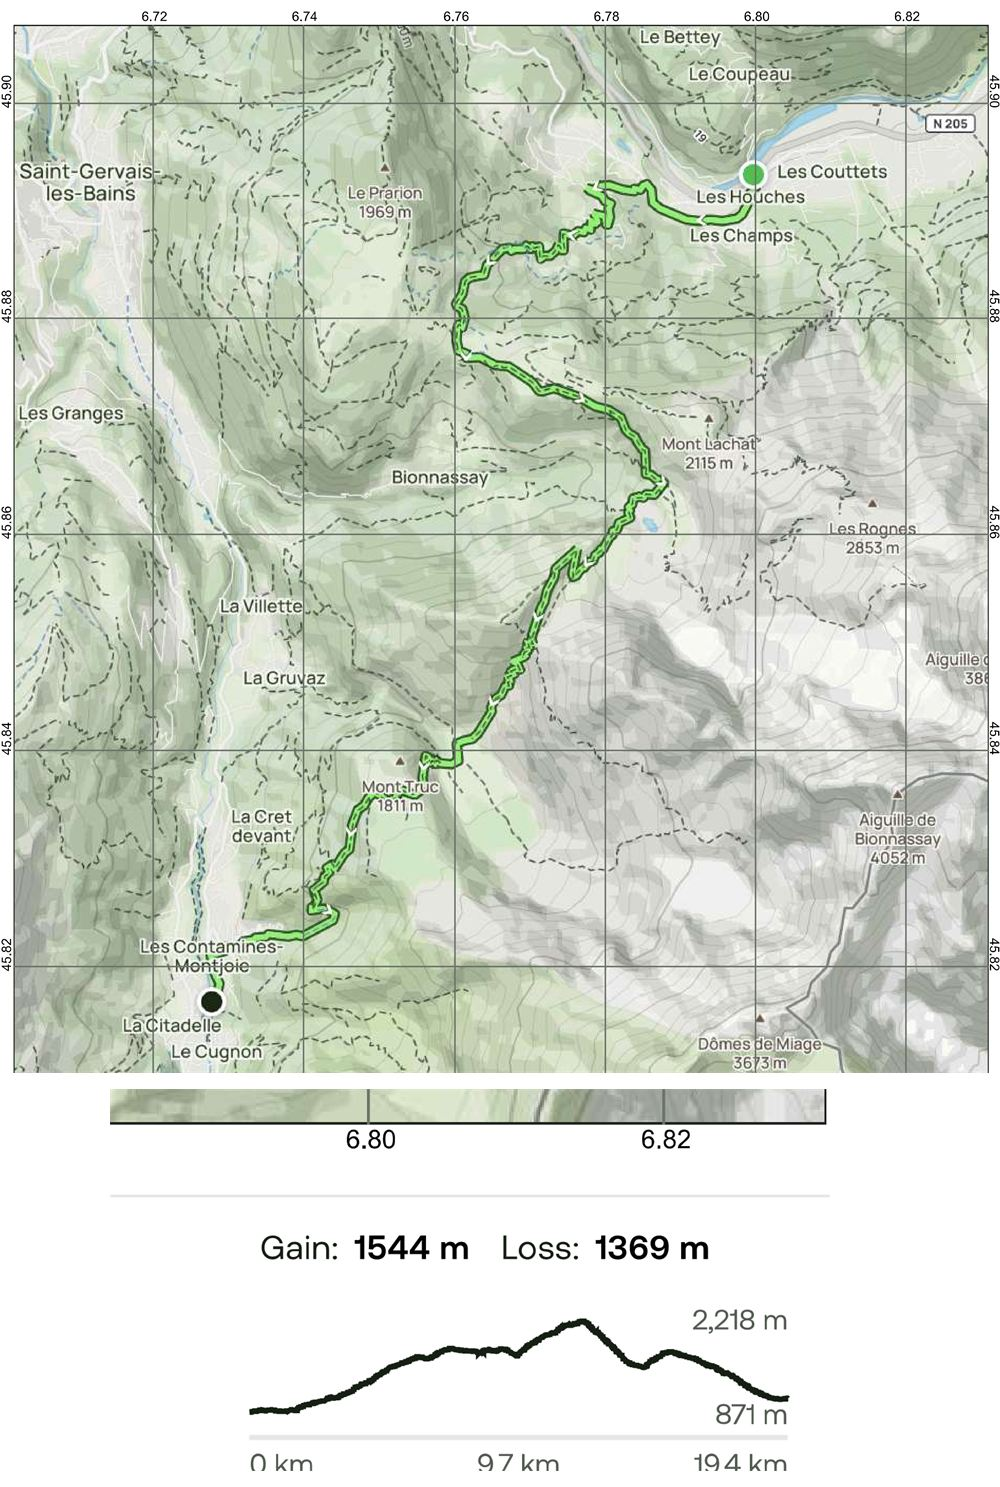
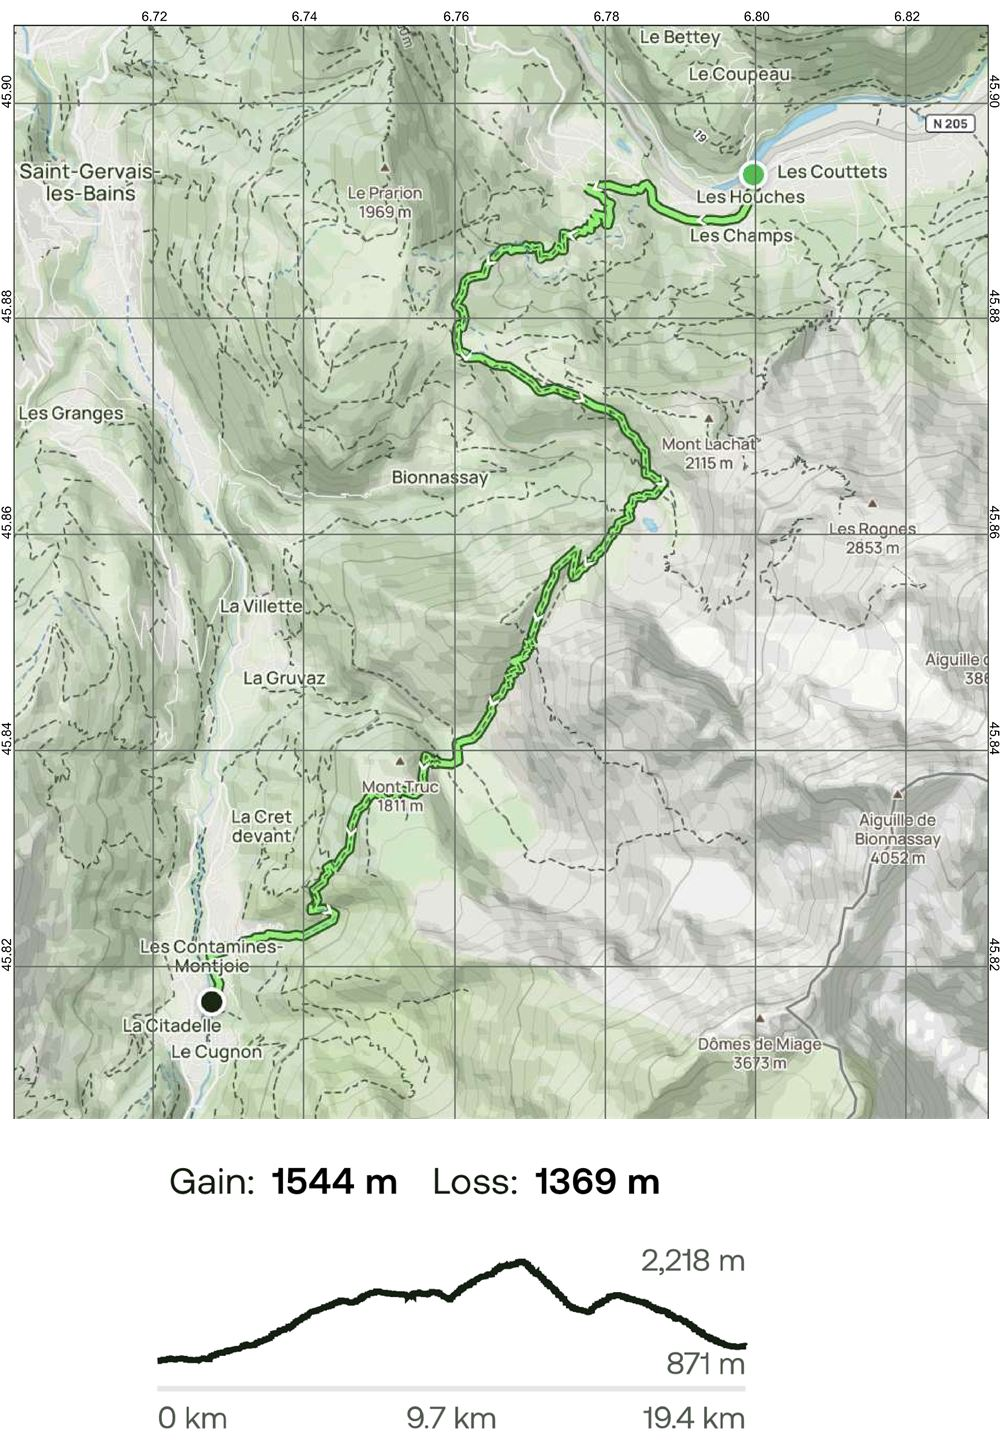
Fix map render: drop pixelated axis band; finalize Day 2 route
- Composite crop was catching the map's bottom coordinate axis + divider,
  leaving an ugly pixelated strip between map and elevation graph. Move the
  elevation crop below it and extend the map crop cleanly. Both days look right.
- Day 2 latest re-export: 20.2 km / +1,535 m / -1,123 m (high point 2,776 m),
  finishes at Les Chapieux. Trip totals ~159 km / +9,946 m.

diff --git a/index.html b/index.html
@@ -170,14 +170,14 @@ const STAGES = [
    skip:"The 800 m climb out of Les Houches is already skipped by the Bellevue cable car (its final day of the season is 13 Sep, so it's running). Nothing else is dull enough to skip.",
    plans:[{grade:"Harder",tag:"⭐ planned · 📸 scenic",pref:true,label:"Les Houches → Col du Tricot (full walk)",at:"https://www.alltrails.com/trail/france/haute-savoie/tour-du-mont-blanc-etape-1-les-houches-les-contamines-variante",dist:"≈19.4 km",gain:"+1,544 m",loss:"−1,369 m",time:"9–9.5 hrs",why:"The full scenic day on foot from Les Houches: climb ~800 m to the Bellevue plateau, branch down to the Bionnassay glacier torrent, cross it on the swaying suspension bridge, over Col de Tricot (2,120 m), then drop via Chalets de Miage and Le Truc to Les Contamines. No cable car — you earn the whole ~1,850 m of ascent, so start very early."},{grade:"Easier",tag:"Cable car start · shorter",label:"Bellevue cable car → Col du Tricot",at:"https://www.alltrails.com/explore/custom-routes/custom-route-tour-du-mont-blanc-etape-1-bellevue-les-contamines-variante-32383fa",dist:"≈12.2 km",gain:"+688 m",loss:"−~1,325 m",time:"6–6.5 hrs",why:"The same Col de Tricot high route, but skip the initial ~800 m road-climb by riding the Bellevue cable car up (13 Sep is its last day of the 2026 season). Shorter and gentler — take an early train to catch the first cabin up."}],
    warns:[]},
-  {day:2,date:"14 Sep",from:"Les Contamines",to:"Les Chapieux",dist:"~20.3 km",gain:"+1,541 m",loss:"−1,125 m",time:"~8.5–9.5 hrs",alt:"2,756 m",country:"FR",diff:5,
+  {day:2,date:"14 Sep",from:"Les Contamines",to:"Les Chapieux",dist:"~20.2 km",gain:"+1,535 m",loss:"−1,123 m",time:"~8.5–9.5 hrs",alt:"2,756 m",country:"FR",diff:5,
    notes:"First major climb over Col du Bonhomme. No shuttle bus today, walk from hotel. Buy your trail lunch in Les Contamines before leaving.",
    meals:{b:"Gaï Soleil, room only; breakfast 13€pp buffet optional",l:"Buy at Carrefour Montagne (310 m) or Proust (440 m) in Les Contamines before leaving",d:"Les Chambres du Soleil, half-board, fixed menu 19:00"},
    physio:"Pace the ascent conservatively, left hip will be working hard on sustained climbs. Rest stops every 40–50 min. Don't push the first big day.",
    weather:"Col du Bonhomme (2,329 m) is dangerously exposed in storm or whiteout and has no on-trail alternative. If the forecast is bad, wait a day in Les Contamines, or go around by road: taxi Les Contamines → Bourg-Saint-Maurice (~€70), then the seasonal Chapieux navette or a taxi up the Vallée des Glaciers to Les Chapieux.",
    escape:"Remote day. Refuge de la Croix du Bonhomme, just past the col, is the shelter and help point. Before the col: return to Les Contamines, taxi → Bourg-Saint-Maurice, then navette/taxi to Les Chapieux. After the col: it is downhill to the Les Chapieux road-head where a Bourg-Saint-Maurice taxi (~€60) can collect. Les Chapieux is zone blanche, arrange any pickup before you lose signal.",
    skip:"Dull bit: the flat first ~5 km (Les Contamines → Notre-Dame de la Gorge). The free navette from the Les Contamines tourist office skips it (summer shuttle, confirm it still runs mid-Sept).",
-   plans:[{grade:"Standard",tag:"⭐ TMB classic",label:"Planned: Col du Bonhomme + Croix du Bonhomme",dist:"≈18.5 km",gain:"+1,316 m",loss:"−929 m",time:"7–9 hrs",why:"The standard TMB: from Notre-Dame de la Gorge climb over Col du Bonhomme (2,329 m) and the Croix du Bonhomme (2,483 m), then descend to Les Chapieux."},{grade:"Harder",tag:"📸 Most scenic",pref:true,label:"Col des Fours + Tête Nord des Fours summit",at:"https://www.alltrails.com/explore/custom-routes/custom-route-tour-du-mont-blanc-etape-2-les-contamines-les-chapieux-3fbbd6f",dist:"≈20.3 km",gain:"+1,541 m",loss:"−1,125 m",time:"~8.5–9.5 hrs",why:"From the Croix du Bonhomme, climb the higher Col des Fours (2,665 m) with a short optional detour up to the Tête Nord des Fours summit for a 360° panorama of Mont Blanc and the Beaufortain. More exposed and snow-prone, and a longer day, so start earlier to reach Les Chapieux before the 19:00 dinner. Skip in bad weather."}],
+   plans:[{grade:"Standard",tag:"⭐ TMB classic",label:"Planned: Col du Bonhomme + Croix du Bonhomme",dist:"≈18.5 km",gain:"+1,316 m",loss:"−929 m",time:"7–9 hrs",why:"The standard TMB: from Notre-Dame de la Gorge climb over Col du Bonhomme (2,329 m) and the Croix du Bonhomme (2,483 m), then descend to Les Chapieux."},{grade:"Harder",tag:"📸 Most scenic",pref:true,label:"Col des Fours + Tête Nord des Fours summit",at:"https://www.alltrails.com/explore/custom-routes/custom-route-tour-du-mont-blanc-etape-2-les-contamines-les-chapieux-3fbbd6f",dist:"≈20.2 km",gain:"+1,535 m",loss:"−1,123 m",time:"~8.5–9.5 hrs",why:"From the Croix du Bonhomme, climb the higher Col des Fours (2,665 m) with a short optional detour up to the Tête Nord des Fours summit for a 360° panorama of Mont Blanc and the Beaufortain. More exposed and snow-prone, and a longer day, so start earlier to reach Les Chapieux before the 19:00 dinner. Skip in bad weather."}],
    warns:["📵 Zone blanche — no phone signal all day, agree any plans in advance","🥪 Day 2 lunch is NOT provided — buy in Les Contamines before leaving"]},
   {day:3,date:"15 Sep",from:"Les Chapieux",to:"Courmayeur",dist:"~21 km",gain:"+~1,300 m",loss:"−~1,650 m",time:"8–10 hrs",alt:"2,516 m",country:"IT",diff:4,
    notes:"Into Italy via Col de la Seigne (2,516 m), the scenic high point. Two dull bits bookend the day: the flat first ~5 km (Les Chapieux → Ville des Glaciers, skip it with the shuttle) and, on the low finish, the Val Veny valley road. The real TMB stays HIGH after Lac Combal over the Mont Favre balcony (2,430 m) into Courmayeur for the best views of the trip. Pick your version in the route options below.",
@@ -501,7 +501,7 @@ function app(){
 function rOverview(){
   const pd=gDone(),pt=gTotal(),td=tDone(),tt=tTotal();
   return`<div class="g3" style="margin-bottom:12px">
-  ${[{v:"~159",u:"km",l:"Total Distance"},{v:"+9,952",u:"m",l:"Total Ascent"},{v:"3",u:"countries",l:"FR · IT · CH"},{v:"10",u:"days",l:"Trail Days"},{v:"11",u:"nights",l:"Accommodation booked"},{v:"10",u:"Sep",l:"SYD Departure"}].map(x=>`<div class="sc"><div class="sv">${x.v}<span class="u">${x.u}</span></div><div class="sl">${x.l}</div></div>`).join("")}
+  ${[{v:"~159",u:"km",l:"Total Distance"},{v:"+9,946",u:"m",l:"Total Ascent"},{v:"3",u:"countries",l:"FR · IT · CH"},{v:"10",u:"days",l:"Trail Days"},{v:"11",u:"nights",l:"Accommodation booked"},{v:"10",u:"Sep",l:"SYD Departure"}].map(x=>`<div class="sc"><div class="sv">${x.v}<span class="u">${x.u}</span></div><div class="sl">${x.l}</div></div>`).join("")}
 </div>
 <div class="g2" style="margin-bottom:12px">
   ${[{l:"Gear packed",d:pd,t:pt,c:"var(--for)"},{l:"To-Dos done",d:td,t:tt,c:"var(--amb)"}].map(w=>`<div class="sc"><div style="font-size:11px;color:var(--txL);margin-bottom:5px">${w.l}</div><div class="mbar"><div class="mfil" style="width:${Math.min(100,(w.d/w.t)*100)}%;background:${w.c}"></div></div><div style="font-size:12px;font-weight:500;color:${w.c}">${w.d}/${w.t}</div></div>`).join("")}
@@ -945,7 +945,7 @@ ${CAMPING.map(c=>`<div class="card" style="margin-bottom:10px">
 function rTotals(){
   const T=[
     {d:1,r:"Les Houches → Les Contamines · Col de Tricot (full walk) 📸",km:19.4,g:1544,l:1369},
-    {d:2,r:"Les Contamines → Les Chapieux · Col des Fours 📸",km:20.3,g:1541,l:1125},
+    {d:2,r:"Les Contamines → Les Chapieux · Col des Fours 📸",km:20.2,g:1535,l:1123},
     {d:3,r:"Les Chapieux → Courmayeur · Mont Favre ⭐📸",km:21,g:1300,l:1650},
     {d:4,r:"Courmayeur, rest day",km:0,g:0,l:0,rest:true},
     {d:5,r:"Courmayeur → Rifugio Bonatti · Mont de la Saxe 📸",km:14,g:1360,l:600},